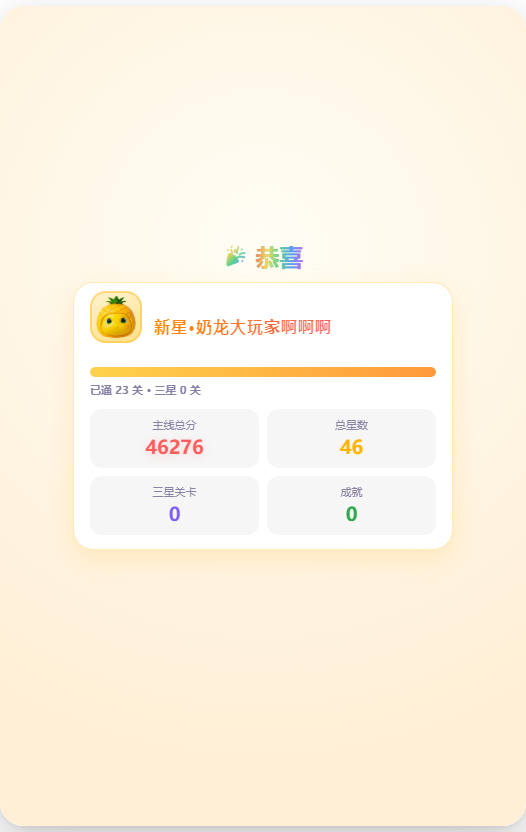
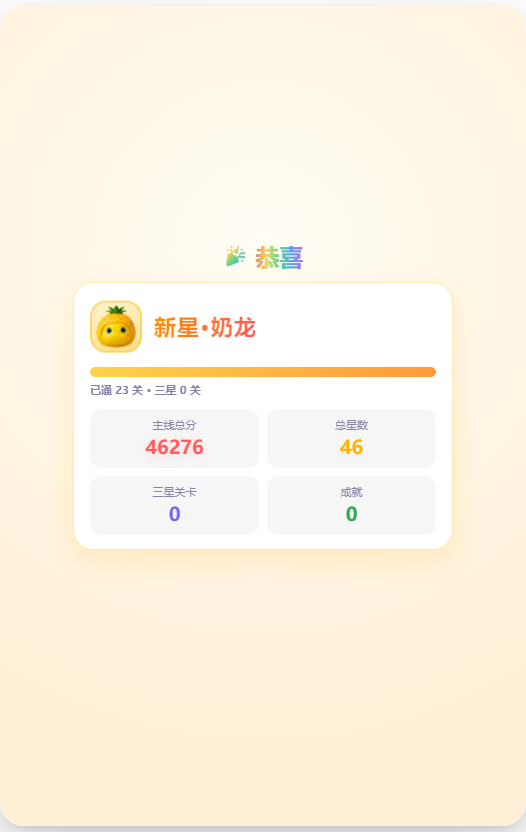
Update files

Changed region(s): [[0.1521, 0.3438, 0.6388, 0.4375]]

diff --git a/index.html b/index.html
@@ -12,8 +12,8 @@
 <link rel="preload" as="image" type="image/webp" href="./assets/4.webp">
 <link rel="preload" as="image" type="image/webp" href="./assets/5.webp">
 <link rel="preload" as="image" type="image/png" href="./assets/nailong.png">
-<link rel="stylesheet" href="./css/style.css?v=20261110a">
-<link rel="stylesheet" href="./css/themes.css?v=20261110a">
+<link rel="stylesheet" href="./css/style.css?v=20261110b">
+<link rel="stylesheet" href="./css/themes.css?v=20261110b">
 </head>
 <body data-theme="grass" data-view="menu">
 <div class="game-container">
@@ -1003,22 +1003,22 @@
   </div>
 </div>
 
-<script src="./js/rng.js?v=20261110a"></script>
-<script src="./js/storage.js?v=20261110a"></script>
-<script src="./js/audio.js?v=20261110a"></script>
-<script src="./js/effects.js?v=20261110a"></script>
-<script src="./js/specials.js?v=20261110a"></script>
-<script src="./js/goals.js?v=20261110a"></script>
-<script src="./js/tasks.js?v=20261110a"></script>
-<script src="./js/mail.js?v=20261110a"></script>
-<script src="./js/input.js?v=20261110a"></script>
-<script src="./js/builtin-music.js?v=20261110a"></script>
-<script src="./js/music.js?v=20261110a"></script>
-<script src="./js/meta.js?v=20261110a"></script>
-<script src="./js/cloud-config.js?v=20261110a"></script>
-<script src="./js/cloud.js?v=20261110a"></script>
-<script src="./js/account.js?v=20261110a"></script>
-<script src="./js/board.js?v=20261110a"></script>
-<script src="./js/game.js?v=20261110a"></script>
+<script src="./js/rng.js?v=20261110b"></script>
+<script src="./js/storage.js?v=20261110b"></script>
+<script src="./js/audio.js?v=20261110b"></script>
+<script src="./js/effects.js?v=20261110b"></script>
+<script src="./js/specials.js?v=20261110b"></script>
+<script src="./js/goals.js?v=20261110b"></script>
+<script src="./js/tasks.js?v=20261110b"></script>
+<script src="./js/mail.js?v=20261110b"></script>
+<script src="./js/input.js?v=20261110b"></script>
+<script src="./js/builtin-music.js?v=20261110b"></script>
+<script src="./js/music.js?v=20261110b"></script>
+<script src="./js/meta.js?v=20261110b"></script>
+<script src="./js/cloud-config.js?v=20261110b"></script>
+<script src="./js/cloud.js?v=20261110b"></script>
+<script src="./js/account.js?v=20261110b"></script>
+<script src="./js/board.js?v=20261110b"></script>
+<script src="./js/game.js?v=20261110b"></script>
 </body>
 </html>

diff --git a/_preview/verify-title.js b/_preview/verify-title.js
@@ -1,7 +1,7 @@
 // 实测：成绩单称号「等级·玩家名」的显示与长度（8 字昵称不撑破卡片）
 const http = require('http');
 const fs = require('fs');
-const PORT = 9229;
+const PORT = 9230;
 function get(p){return new Promise((res,rej)=>{http.get({host:'127.0.0.1',port:PORT,path:p},(r)=>{let d='';r.on('data',c=>d+=c);r.on('end',()=>res(d));}).on('error',rej);});}
 const sleep=(ms)=>new Promise(r=>setTimeout(r,ms));
 (async()=>{
@@ -20,7 +20,7 @@ const sleep=(ms)=>new Promise(r=>setTimeout(r,ms));
   // 通关 23/46 → 达人；昵称改成 8 个字（最长的合法昵称）
   console.log('setup', await ev(`(function(){
     for (var i=1;i<=23;i++) Store.recordLevel(i, 2000+i, 2);
-    Meta.setNickname('奶龙大玩家啊啊啊');
+    Meta.setNickname('奶龙大玩家啊啊啊');   // 8 字（最长的合法昵称）
     return Meta.nickname() + ' / 已通 ' + Object.keys(Store.getProgress()).length;
   })()`));
 
@@ -31,6 +31,22 @@ const sleep=(ms)=>new Promise(r=>setTimeout(r,ms));
   await ev(`document.getElementById('btn-replay-ending').click(); 'ok'`);
   await sleep(1500);
   console.log('title', await ev(`document.getElementById('master-title').textContent`));
+  console.log('sizes-A', await ev(`(function(){
+    var greet = document.querySelector('.master-greet-txt');
+    var b = document.getElementById('master-title');
+    return JSON.stringify({ greet: getComputedStyle(greet).fontSize, title: getComputedStyle(b).fontSize,
+      len: b.textContent.length, clipped: b.scrollWidth > b.clientWidth + 1 });
+  })()`));
+  // 换成短昵称，字号必须一模一样
+  await ev(`Meta.setNickname('奶龙'); document.getElementById('btn-history').click(); 'ok'`);
+  await sleep(400);
+  await ev(`document.getElementById('btn-replay-ending').click(); 'ok'`);
+  await sleep(1200);
+  console.log('sizes-B', await ev(`(function(){
+    var b = document.getElementById('master-title');
+    return JSON.stringify({ text: b.textContent, title: getComputedStyle(b).fontSize,
+      len: b.textContent.length, clipped: b.scrollWidth > b.clientWidth + 1 });
+  })()`));
   console.log('fit', await ev(`(function(){
     var b = document.getElementById('master-title');
     var card = document.querySelector('.master-card');

diff --git a/js/game.js b/js/game.js
@@ -3985,11 +3985,6 @@
     const crownBox = $('master-crown');
     if (crownBox) crownBox.innerHTML = '<img src="./assets/nailong.png" alt="奶龙">';
     setText('master-title', title);
-    // 名字长了（8 字昵称 + 等级）就把称号字号收一点，别撑出卡片
-    if ($('master-title')) {
-      const n = title.length;
-      $('master-title').style.fontSize = n <= 7 ? '20px' : (n <= 9 ? '18px' : '16px');
-    }
     // 「🎉 恭喜」彩色：文字由 CSS 渐变裁切，🎉 用彩虹填充的图片（彩色字形无法直接染色）
     const greetIco = $('master-greet-ico');
     if (greetIco) {

diff --git a/css/themes.css b/css/themes.css
@@ -2222,7 +2222,8 @@ body[data-skin="black"]   { --skin-target-bg: rgba(255, 143, 171, 0.22); }
   min-width: 0;
 }
 .master-title-box b {
-  font-size: 20px;
+  /* 字号固定，不随字数变化；比「恭喜」(24px) 小一号 */
+  font-size: 22px;
   font-weight: 900;
   letter-spacing: 1px;
   background: linear-gradient(90deg, #ff8c00, #ff5c5c);
